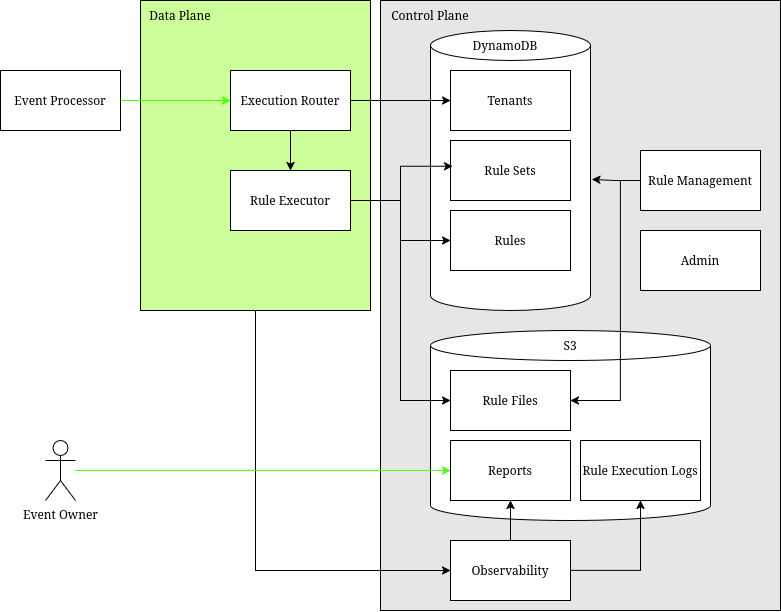
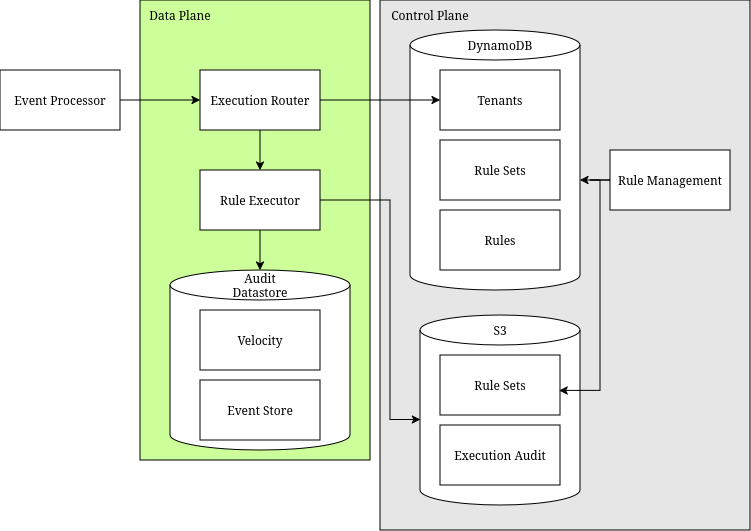
Documentation Update

diff --git a/README.md b/README.md
@@ -16,7 +16,13 @@ lambda. The control plan is and data plan are separate ECS services.
 A front-end for management is lower-priority. (Because I hate doing UIs.)
 
 # Component model
-[![System Component Diagram](docs/system-component.png)](https://viewer.diagrams.net/?tags=%7B%7D&lightbox=1&highlight=0000ff&edit=_blank&layers=1&nav=1&title=Rule%20Engine%20Components.drawio&dark=auto#R%3Cmxfile%3E%3Cdiagram%20name%3D%22Page-1%22%20id%3D%22w2k-o-g6j9WufQSYp_mu%22%3E7VvbcuMoEP0aP25KEkKxHhNfZrfKqbiSrd3JI5YYmR0kXBj5sl%2B%2FYCFLMnLkmdjGlZ3KQ6AFSJzT3dAN7oFBuvnC0WL%2BxGJMe54Tb3pg2PM81wW%2B%2FKck20IS9INCkHAS60aV4JX8i7XQ0dKcxHjZaCgYo4IsmsKIZRmOREOGOGfrZrNvjDbfukAJNgSvEaKm9G8Si3kh7UOnkv%2BOSTIv3%2Bw6%2BkmKysZasJyjmK1rIjDqgQFnTBSldDPAVIFX4lL0Gx95uv8wjjNxUocQTf%2BSHEXPf9wvVmLytOb4N9AvhlkhmusZ668V2xICzvIsxmoUpwce13Mi8OsCRerpWpIuZXORUllzZfEboXTAKOO7vmAUqD8p16%2FBXODN0Qm4e1ikPmGWYsG3sonuAEKNpFalvq6uK178Ev15jZOg1CWkdSHZD13BJQsasR9Ar9SCGlg4luqjq4yLOUtYhuiokj424azaTBhbaBD%2FwUJstS2gXLAmxBIuvv2q%2B%2B8qb6pyB8vqcFN%2FONyWtQ0RX6uWsvZWjijLVSdVKfsU81OTep80iQHLeYTfAcsvzRfxBIv3GgbtasAxRYKsml9ydk7Lz7yURQwG43EYnsciXNhpER5osQhwMYtwQTd60hEuVDHaUiJh5KAbw1kB%2BGS2F6Doe7Kj4TkXchis5cvCaFx4HoB9vwmw65oIu0ELwnsqzo%2BwbyD8klO5RH5ISc%2BBVdDEygtbsPLa%2FPPFoIKtUEnJKxY3CJhnHbDAAGy4zVDKho8GWnLeoglJG2JLwdl3XLq%2FjClDbXhELUKUJJnyCRI7LOWPClkit2EP%2BkFK4rhl%2BTwHDX3YaeNtJg4uxsL9p%2Fahfgu%2Be3dZB9gNL4awuet9BZ9XwyHsZuC6Gh4ec8xjcotLmQ9te%2BbyZSZiow2OckFYJssTltgHDx6EadD6suabtn2FMK3pGOTO378fj53xeYMqT0%2BtM6jy%2FHbSrhNUeW1hQUCVe43JShYTVRyt1Pw9Z8pZhJdLiZtuI99Za2Zdw92DoMC%2BdwhtKPjP5iHOqf7%2Bqerft6n%2BsG%2BXn4qStwYjN8QPtOqezJi6vqy%2BsFxt2Wy7He8wGWHd7wDXAOV%2F4nfgiXrtWl12gRk4%2FuKnJRKx5neOJqgK98Nuz%2Bl41p2OZyapNGhPKEMJTnebSMuwBQch9z6WtgebmVV6iFOS3RxUoC3Hfl2ozPTQnzhD2Q3mjG9gD2D5DPTOcfvNdcb3wq6TUFWbYk4kBCoXZ2%2F5sbrtLe9mWKLOvXOc8GCLIHcslqkLTqUOWKUO2qXO3s7uZH4%2BurPbdX3gHG1rDRaM6GVAjzxVgtpiBg7W%2FeDgUk5He7%2FvHOhG8QWVpuyn8gHlMdPvAyYJY6rnlKIMG8r1ac5CwH3nlQnXb1k%2FL3YW4nsGGUMk0Odn4oTLK22ngpcjwnIStZmkc6%2FnUv1TXWrt2qKNJKrlZMbt8wOPGNyVLs6ZcfnzbIn5Cs0IJWJrsGc7dgqsH0xC867hC15ILb29QNP%2BKS60u%2BX9wWTmVU5%2F4amnv3Y9AzRPf8uj3ud11nKyUt5uylP6EKksaLUvmaAZplO2JLuzGTCcMSFY2rJxEezAKFhxyWmw%2F6HA2W7XdBpK2x3cn7ATWa1%2BLlAEA9WPLsDoPw%3D%3D%3C%2Fdiagram%3E%3C%2Fmxfile%3E)
+[![System Component Diagram](docs/system-component.png)](https://viewer.diagrams.net/?tags=%7B%7D&lightbox=1&highlight=0000ff&edit=_blank&layers=1&nav=1&dark=auto#R%3Cmxfile%3E%3Cdiagram%20name%3D%22Page-1%22%20id%3D%22w2k-o-g6j9WufQSYp_mu%22%3E5Zpbk9o2FMc%2FDY%2Ft2JZt8OMusMl2dhsaOmnyqLW1Ro2wqJAB99NXwsLGlrgkXMRuszMZ61jy5Xf%2BPtI5ogP609UHBmeTZ5og0vGcZNUBg47nRb4j%2FpeGojQEYVQaUoaT0uTWhjH%2BFymjGpfmOEHzRkdOKeF41jTGNMtQzBs2yBhdNru9UtK86wymSDOMY0h061844ZPS2guc2v4R4XSyubPrqDNTuOmsDPMJTOhyywSGHdBnlPLyaLrqIyLZbbiU4x52nK0ejKGMHzUggqMvwkXxp8fubMGfnpcM%2FQJ65WUWkOTqjdXT8mKDgNE8S5C8itMB98sJ5mg8g7E8uxQ%2BF7YJnxLRcsXhKyakTwll67FgGMo%2FYdefVr3AAjGOVlsm9fQfEJ0izgrRRZ0FkSKppNRTzWXtF9BVtsmWTwKgjFBpIa0uXeMSB4rYD9Dz3cvS6%2FcfHqLoPPTc4CA9Dxjo%2BeGl6LngMD3x0czkYVwQLDAycJjhSwn86aUywPh7unbDp5yLyyBln5fBxg3OA9j3moBdVyfsmvTpXY6wrxH%2BnBMRTk8S6TlYtcToRQZWnoHV5VAFRlTCMkb8BoF51oGFGrBBkcEpHdxrtMRL8iYSE7E5Z%2FQ72oS%2FjMoPtRERlQkSnGYyJgicSNjvJUYspuw7dWKKk0Te%2Br7ppXO4oXf4Gw8NXrjYDOR231cMBU2%2BIAp0mZsAu9HFCOsrpDH4%2Fyjc5IHrKjx6U4HZBwbFXjUwb262BWy4QnHOMc2E%2BS5PML85bIFjG5uvf9QoEamgalLGJzSlGSTD2tr6%2FOo%2BT5TOFKy%2FEeeFymthzmkTZTMiiCW%2Fs%2F63D%2FKc5ixG%2BwSg3oRDliK%2Br6NaHsr33Os0hgjkeNFMic8vXFM%2BEBIZVxO8EIepPBwuJBDPGTEao%2FlccFN9xD23ullXuNtaKQS2F2xeZEPgAiArvqrx68Y32fg12DQHq%2B2Tg%2BLQVHZY%2Fv6x8u%2FdlPyDnl3%2F1C751vCIPf8EN%2BUfT0%2Bmt%2BfVzzSXazXbYcdq3CEh%2BgP%2F89vj60u3eHTcIfz966wq87wlXbck95NCD3Shmwl5VnW9s%2FJRypvenqg9%2B5OpXv1Q0J5hBlM0XS9SLGMLWxXJKkmzh01Ppv9EGcxuMJGzv2ADeubbpyJYUTlyRGCGNGjvpgxRbeTs3q1w%2FWuWIXxPc8YAcvj%2BPXHEvlHvQo4wT5ZH7Lldt%2BKpsTQQ3423XW8zhR0T4Mp4fsK61FXRyJGSn4sVwW3r%2FSSHeP5hh1yqAGp0hz5lbkogY6MnfmLiPA1Ya3FWbRhbyzj0PZEviNAY8%2BLmYIFrbnyav%2FZQg3Ld9MxxvFZp6FBtaN0aIYYFARkdrpG47dl9OyFxWw%2B9YwwWWx1mFKsFsbrySBq2VqpOa1nfa%2F3w50D%2FwHFaqimfoNZQ9SonyKprWVZRBFqyimzLKjxWVpENWYXtJDvcL6t2f797DVnZLZK6LUl1u29GU%2BBETe2YZESz%2Fglj6eX6d6Bg%2BB8%3D%3C%2Fdiagram%3E%3C%2Fmxfile%3E)
+
+The router takes the requests for event processing, and finds the correct ruleset version
+to execute. That is forward to the rules engine itself which access the rules from S3.
+The audit datastore contains the execution results for later retrieval, and provides the
+data needed for velocity calculations.  All details of an execution is stored as
+immutable files within S3.
 
 # Sequence of events
 
@@ -33,15 +39,14 @@ Rules can be migrated between environments.
 
 ## Rule Management
 
-Rules are available at the global level, tenant and event. Rules are versioned and only
-one version can be active at a time in a given execution environment.  Rules can be exported
-or imported into environments, and enabled or run in shadow mode. They exist in as versions
-in an environment.
+Rules are available at the global level, tenant and event. Rules are versioned  and
+placed into rulesets for the event they apply to.  Rulesets can be exported and
+imported into any environment.
 
 ## Rule Engine Execution
 
-A rule set is a given set of rules of the three types; global, tenant and event. The types of
-rules exist within a given version. Requests can be made against a RuleSet with a given set
+A rule set is a given set of rules for an event, and can be versioned. 
+Requests can be made against a RuleSet with a given set
 of facts. Those requests are executed with creates a result. Executions can be 'live' or 'shadow'. 
 Shadow results do not modify the datastore for the tenant/events, which is the history of events
 and the velocity setup for them.
